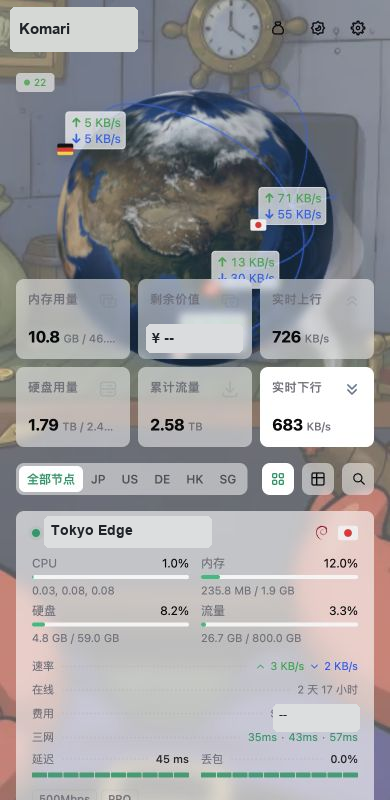
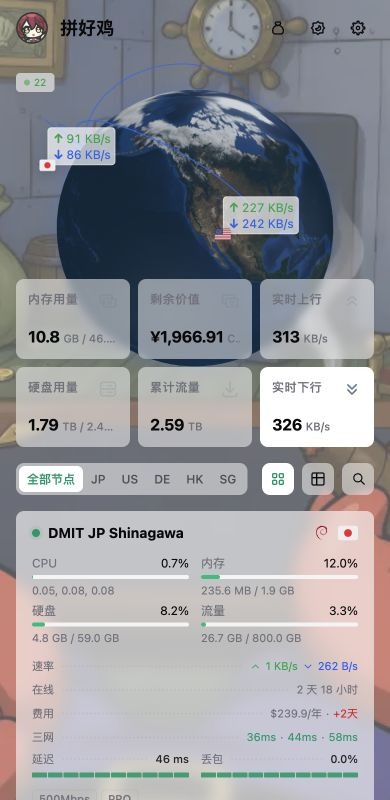
docs: restore authentic gallery data

diff --git a/README.md b/README.md
@@ -4,7 +4,7 @@
 
 ![Komari Emerald Globe 主题预览](docs/preview.png)
 
-> 预览图取自真实部署环境。站点名称、节点/厂商名称、费用、到期信息、IP、访客位置及可识别主机的信息均已脱敏；资源用量、速率和延迟等实时数值仅用于展示界面效果。
+> 预览图取自真实部署环境，仅移除了访客 IP/IPv6 等网络地址信息；节点名称、费用、配置和实时数据均保留截图时的真实状态，数值会随运行情况变化。
 
 ## 功能特性
 
